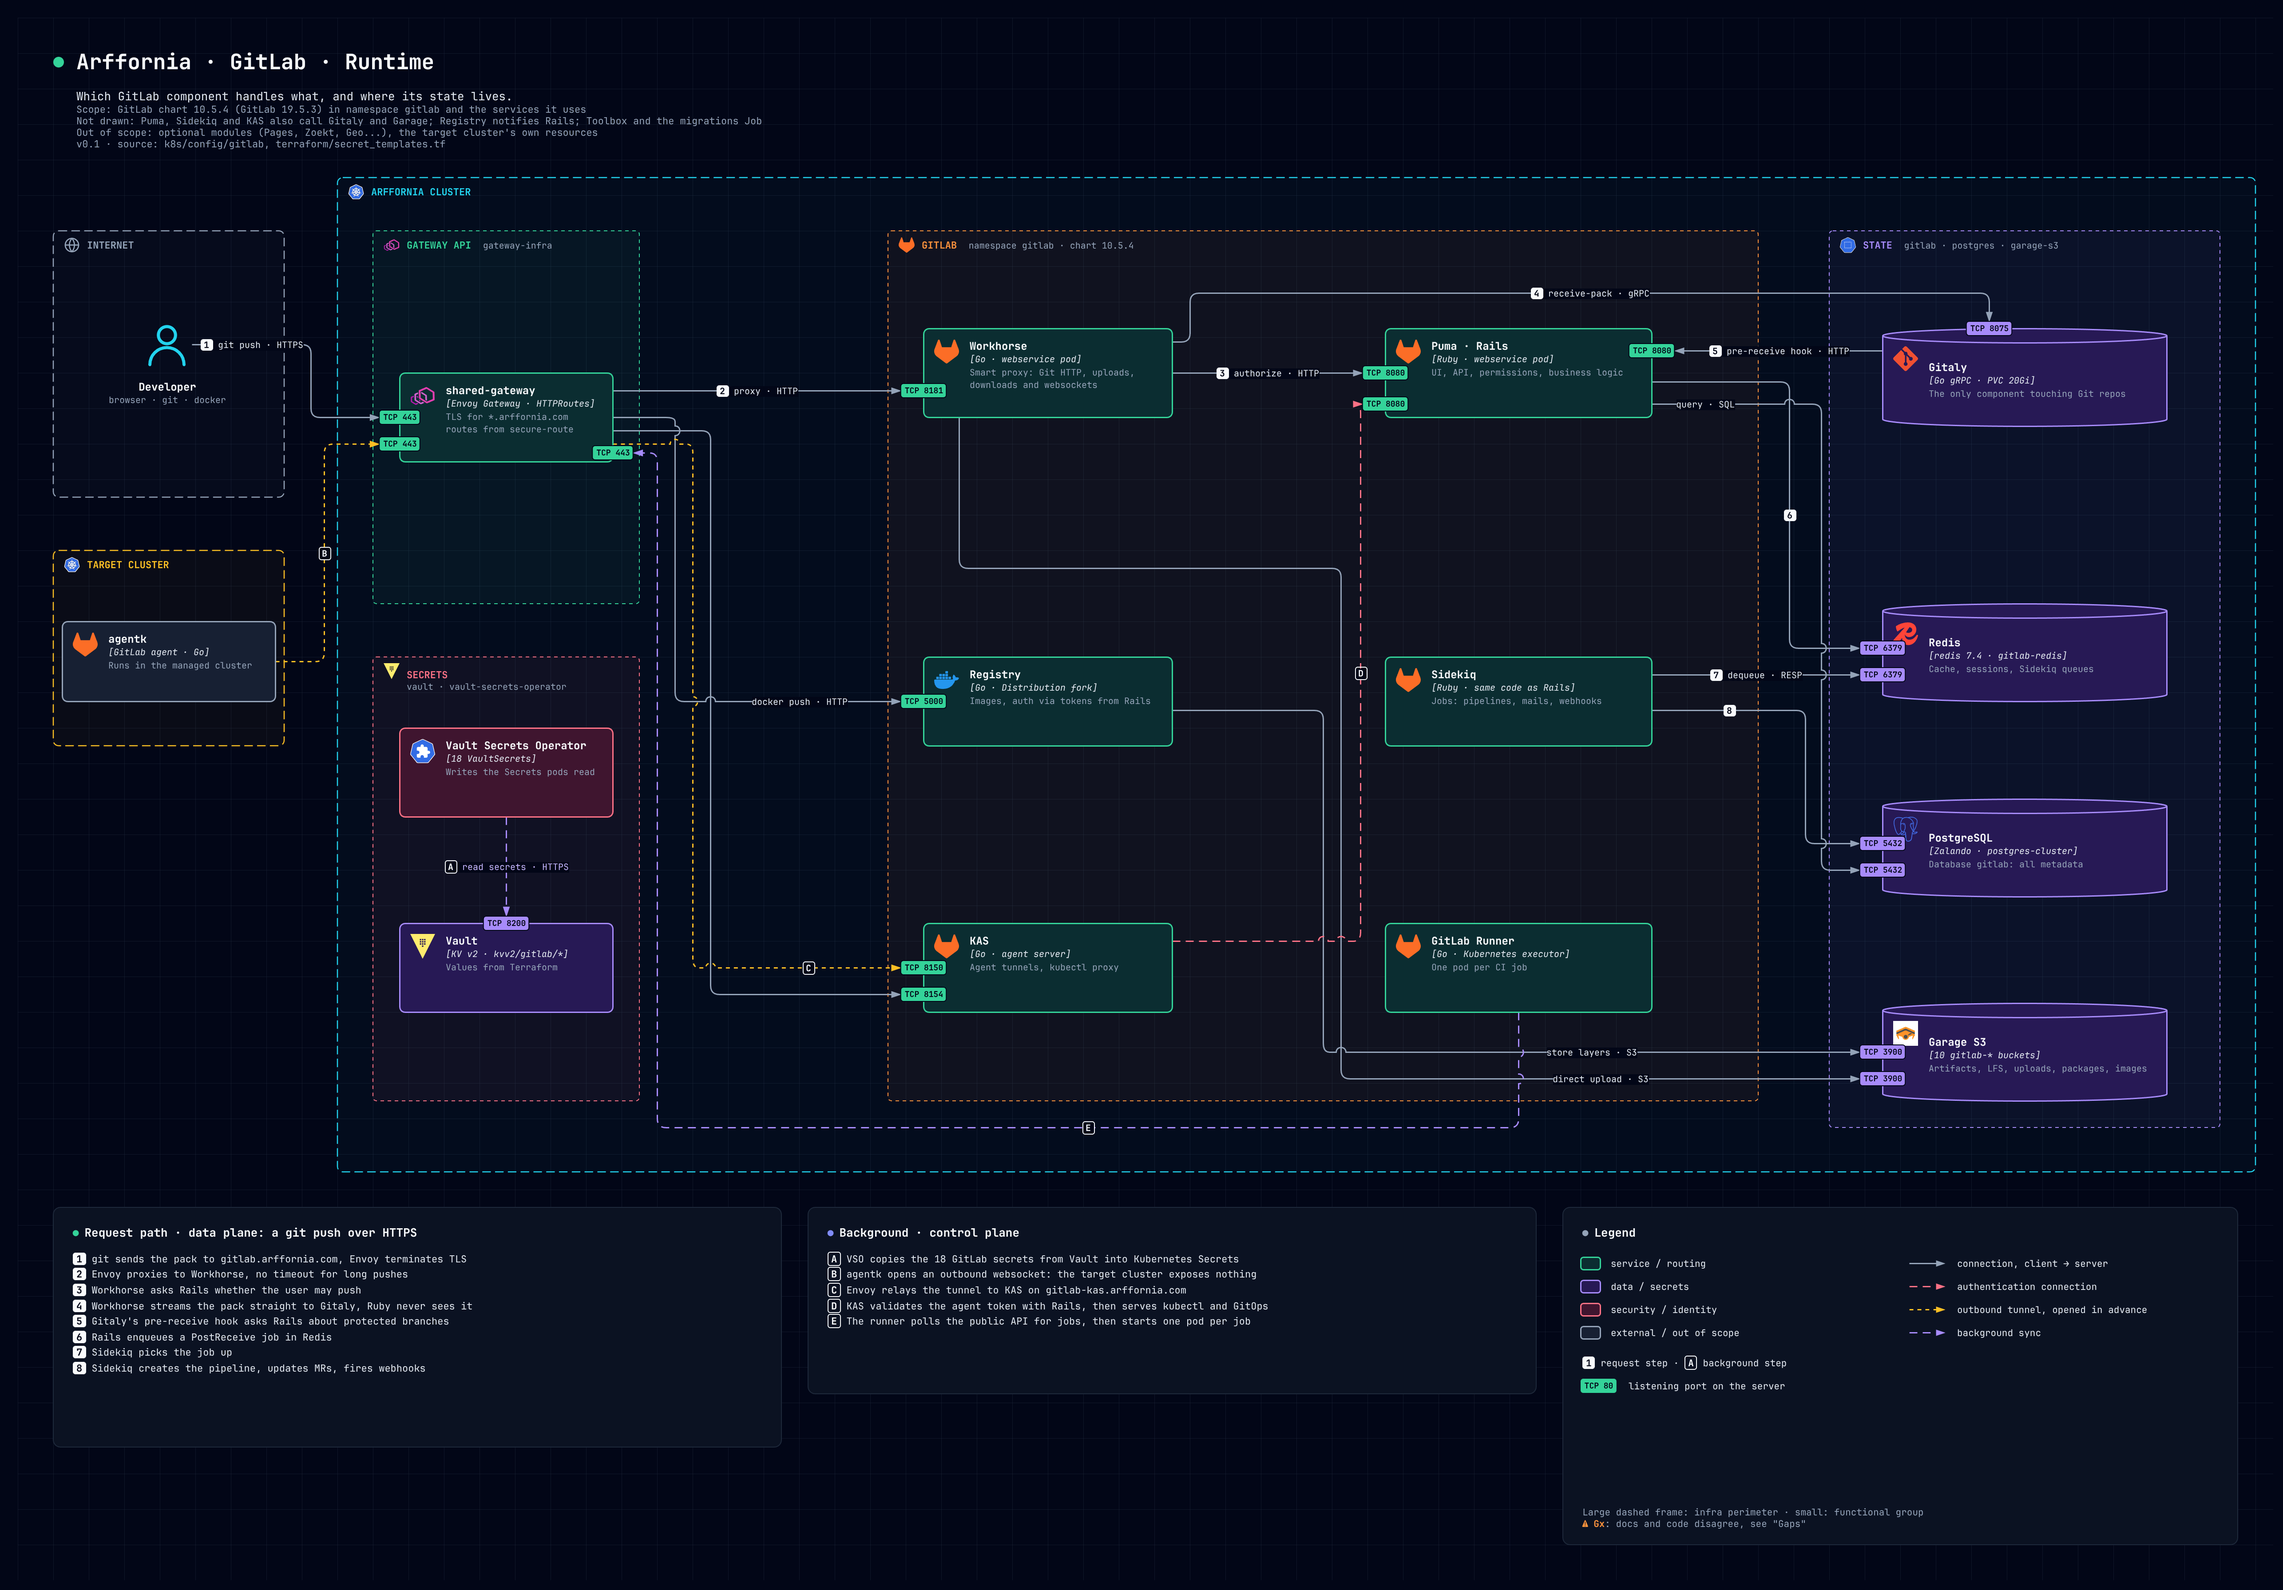
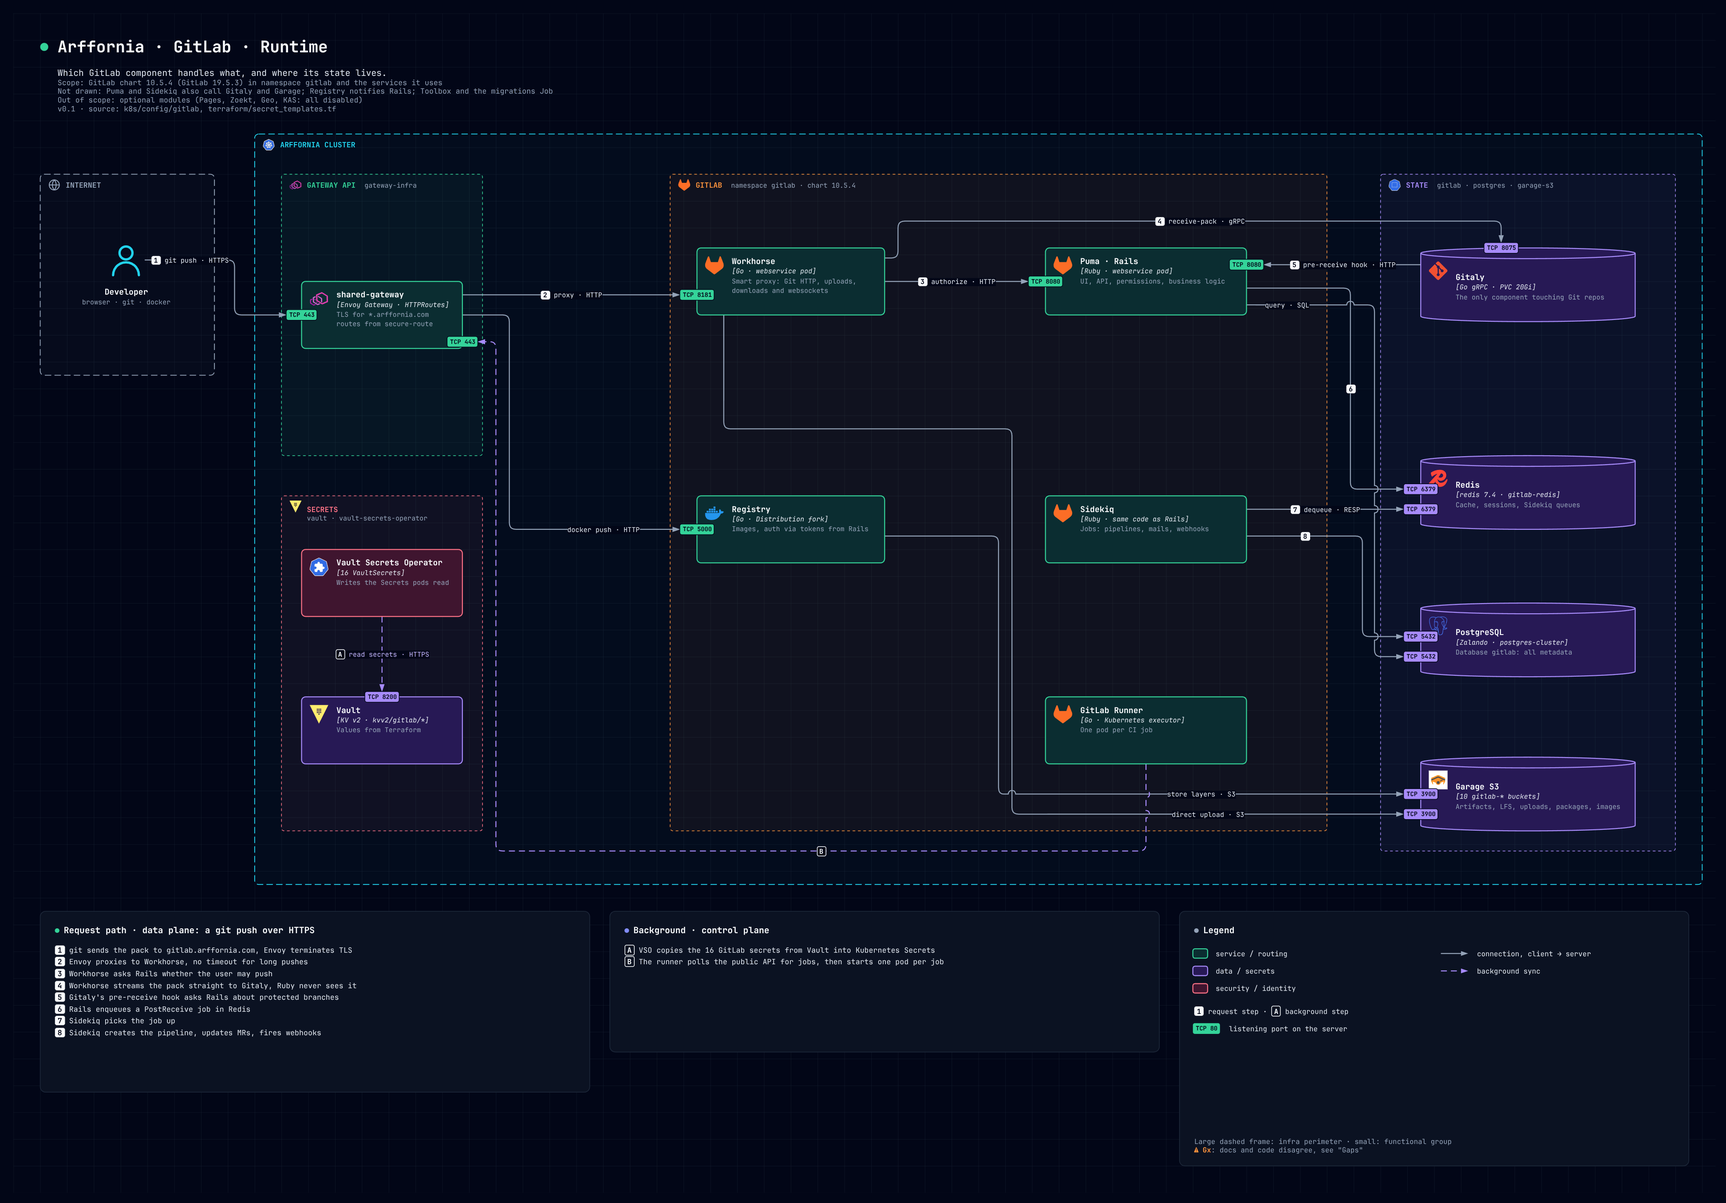
chore(gitlab): disable KAS, the server side of the agents
No agent is left since the app platform pulls with Argo CD. Removes its route, DNS name and
secrets.

Claude-Session: https://claude.ai/code/session_014hcKHzEMHLcerUc7nx5RbN

diff --git a/k8s/config/gitlab/README.md b/k8s/config/gitlab/README.md
@@ -9,7 +9,6 @@ disabled so a rebuild gets the same keys back. Architecture: `architecture/gitla
 |---|---|---|
 | `gitlab.arffornia.com` | Web, API, Git over HTTPS | shared-gateway, Keycloak SSO |
 | `gitlab-registry.arffornia.com` | Container registry | shared-gateway |
-| `gitlab-kas.arffornia.com` | GitLab agent for Kubernetes (`wss://`) | shared-gateway |
 | `gitlab-ssh.arffornia.com:5522` | Git over SSH | MetalLB `192.168.1.240`, router rule below |
 
 ## First install
